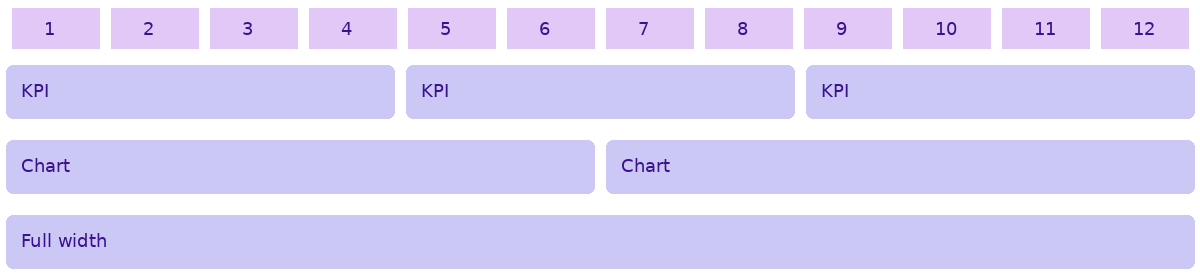
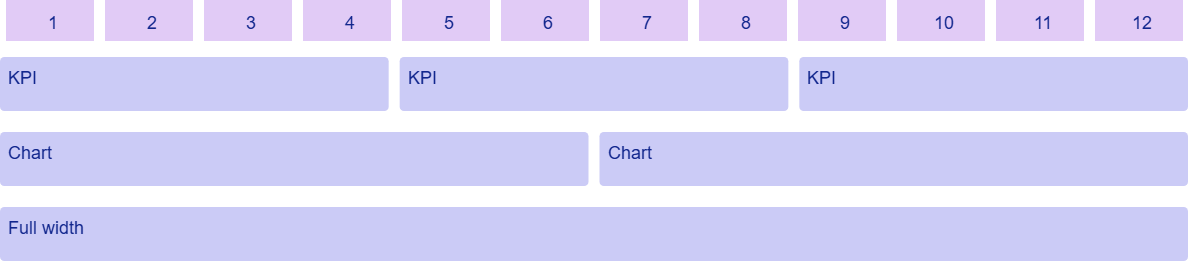
Refine Styling & Layout and align colours with team palette

diff --git a/index.html b/index.html
@@ -283,10 +283,9 @@
           <section id="page-layouts">
           <h3>3.1 Page Layouts</h3><p>The dashboard uses a single-page layout that presents key statistics first, followed by detailed visualizations. A consistent header and a simple content hierarchy help users locate information quickly.</p>
           <div class="d-flex justify-content-center">
-            <figure><img class="w-100" src="images/page-layout.png" alt="Desktop dashboard with three KPI cards and six chart cards"><figcaption>Figure 1. Proposed desktop layout (schematic; no actual data).</figcaption></figure>
+            <figure><img class="w-100" src="images/page-layout.png" alt="Desktop dashboard with three KPI cards and six chart cards"><figcaption>Desktop Dashboard Layout</figcaption></figure>
           </div>
-          <table><tr><th>Region</th><th>Purpose</th></tr><tr><td>Header</td><td>Command TV logo and dashboard title</td></tr><tr><td>Overview</td><td>Three single-value charts for key statistics</td></tr><tr><td>Data visualizations</td><td>Six multi-value charts arranged in cards</td></tr><tr><td>Footer</td><td>Brand information</td></tr></table><p>Use a main content landmark and descriptive section headings. Chart cards should have enough room for titles, legends, axes and interactive controls.</p>
-          <h5>HTML Pattern</h5>
+          <table><tr><th>Region</th><th>Purpose</th></tr><tr><td>Header</td><td>Command TV logo and dashboard title</td></tr><tr><td>Overview</td><td>Three single-value charts for key statistics</td></tr><tr><td>Data visualizations</td><td>Six multi-value charts arranged in cards</td></tr><tr><td>Footer</td><td>Brand information</td></tr></table>
           <pre><code>
 &lt;header class=&quot;ctv-header&quot;&gt;
   &lt;span&gt;Command TV&lt;/span&gt;&lt;span&gt;Analytics Dashboard&lt;/span&gt;
@@ -315,13 +314,13 @@
 &lt;footer class=&quot;layout-demo-footer&quot;&gt;Command TV&lt;/footer&gt;
         </code></pre>
         </section>
-        <section id="grid-configuration"><h3>3.2 Grid Configuration</h3><p>A 12-column CSS Grid provides a consistent alignment system. On desktop and tablet screens, each KPI occupies four columns and each detailed chart occupies six. Mobile cards span all 12 columns.</p><figure><img src="images/grid-configuration.png" alt="Twelve-column grid showing four-column KPI and six-column chart cards"><figcaption>Grid visual example</figcaption></figure><table><tr><th>Pattern</th><th>Columns</th><th>Spacing</th></tr><tr><td>KPI card</td><td>4 of 12</td><td>24 px desktop / 16 px smaller</td></tr><tr><td>Chart card</td><td>6 of 12</td><td>24 px desktop / 16 px smaller</td></tr><tr><td>Full-width card</td><td>12 of 12</td><td>Optional for wider charts</td></tr><tr><td>Card padding</td><td>—</td><td>16 px</td></tr><tr><td>Card radius</td><td>—</td><td>8 px</td></tr></table><p></p><h5>CSS pattern</h5><pre><code>.ctv-grid { display: grid; grid-template-columns: repeat(12, minmax(0, 1fr)); gap: 24px; }
+        <section id="grid-configuration"><h3>3.2 Grid Configuration</h3><p>A 12-column CSS Grid provides a consistent alignment system. On desktop and tablet screens, each KPI occupies four columns and each detailed chart occupies six. Mobile cards span all 12 columns.</p><figure><img src="images/grid-configuration.png" alt="Twelve-column grid showing four-column KPI and six-column chart cards"><figcaption>12-Column Grid Layout</figcaption></figure><table><tr><th>Pattern</th><th>Columns</th><th>Spacing</th></tr><tr><td>KPI card</td><td>4 of 12</td><td>24 px desktop / 16 px smaller</td></tr><tr><td>Chart card</td><td>6 of 12</td><td>24 px desktop / 16 px smaller</td></tr><tr><td>Full-width card</td><td>12 of 12</td><td>Optional for wider charts</td></tr><tr><td>Card padding</td><td>—</td><td>16 px</td></tr><tr><td>Card radius</td><td>—</td><td>8 px</td></tr></table><p></p><h5>CSS pattern</h5><pre><code>.ctv-grid { display: grid; grid-template-columns: repeat(12, minmax(0, 1fr)); gap: 24px; }
           .ctv-kpi { grid-column: span 4; }
           .ctv-chart { grid-column: span 6; }
           .ctv-full { grid-column: 1 / -1; }
           .ctv-card { min-width: 0; padding: 16px; border-radius: 8px; background: #fff; box-shadow: 0 2px 8px rgba(59, 17, 141, 0.12); }
           </code></pre></section>
-          <section id="responsive-screen-sizes"><h3>3.3 Responsive Screen Sizes</h3><p>The layout adapts to the viewport rather than relying on fixed chart widths. Smaller screens stack cards vertically so that content remains readable without page-level horizontal scrolling.</p><figure><img src="images/responsive-layout.png" alt="Desktop, tablet and mobile dashboard layouts"><figcaption>Figure 2. Responsive layout patterns (schematic, not to scale).</figcaption></figure><table><tr><th>Viewport</th><th>KPI per row</th><th>Charts per row</th><th>Gap</th></tr><tr><td>Desktop ≥ 1200 px</td><td>3</td><td>2</td><td>24 px</td></tr><tr><td>Tablet 768–1199 px</td><td>3</td><td>2</td><td>16 px</td></tr><tr><td>Mobile &lt; 768 px</td><td>1</td><td>1</td><td>16 px</td></tr></table><p>For Project 2, charts must resize with their containers; chart-specific labels and controls should be tested at each breakpoint.</p><h5>CSS pattern</h5><pre><code>@media (max-width: 1199px) {
+          <section id="responsive-screen-sizes"><h3>3.3 Responsive Screen Sizes</h3><p>The layout adapts to the viewport rather than relying on fixed chart widths. Smaller screens stack cards vertically so that content remains readable without page-level horizontal scrolling.</p><figure><img src="images/responsive-layout.png" alt="Desktop, tablet and mobile dashboard layouts"><figcaption>Responsive Layout Patternscaption</figure><table><tr><th>Viewport</th><th>KPI per row</th><th>Charts per row</th><th>Gap</th></tr><tr><td>Desktop ≥ 1200 px</td><td>3</td><td>2</td><td>24 px</td></tr><tr><td>Tablet 768–1199 px</td><td>3</td><td>2</td><td>16 px</td></tr><tr><td>Mobile &lt; 768 px</td><td>1</td><td>1</td><td>16 px</td></tr></table><h5>CSS pattern</h5><pre><code>@media (max-width: 1199px) {
             .ctv-grid { gap: 16px; }
             .ctv-main { padding: 16px; }
           }
@@ -331,7 +330,7 @@
           }
           </code></pre></section>
           
-          <section id="live-example"><h3>Live responsive example</h3><p>Resize the browser to see the cards rearrange. The cards are layout placeholders, not actual data.</p><div class="layout-demo"><header class="ctv-header">
+          <section id="live-example"><h3>Live responsive example</h3><p>Resize the browser to preview the responsive layout. </p><div class="layout-demo"><header class="ctv-header">
             <span>Command TV</span><span>Analytics Dashboard</span>
           </header>
           <div class="ctv-main" role="region" aria-label="Dashboard preview">

diff --git a/layout.css b/layout.css
@@ -34,9 +34,9 @@ body.layout-page { margin: 0; background: #f7f5fa; color: #3B118D; font-family: 
 .layout-doc th { background: #E1C8F6; }
 .layout-doc pre { background: #f7f5fa; padding: 16px; border-radius: 8px; overflow: auto; color: #31264a; line-height: 1.5; }
 .layout-demo { border: 1px solid #CBC8F6; border-radius: 8px; overflow: hidden; background: #f7f5fa; }
-.layout-demo .ctv-kpi { min-height: 80px; background: #C8E1F6; }
-.layout-demo .ctv-kpi:nth-child(2) { background: #CBC8F6; }
-.layout-demo .ctv-kpi:nth-child(3) { background: #E1C8F6; }
+.layout-demo .ctv-kpi { min-height: 80px; background: #CBE1F6; }
+.layout-demo .ctv-kpi:nth-child(2) { background: #CBCBF6; }
+.layout-demo .ctv-kpi:nth-child(3) { background: #E1CBF6; }
 .layout-demo .ctv-chart { min-height: 120px; }
 .layout-demo-footer { padding: 16px 24px; background: #E1C8F6; color: #3B118D; }
 @media (max-width: 767px) { .layout-doc { padding: 16px; } .layout-doc th, .layout-doc td { padding: 6px; font-size: .8rem; } }
